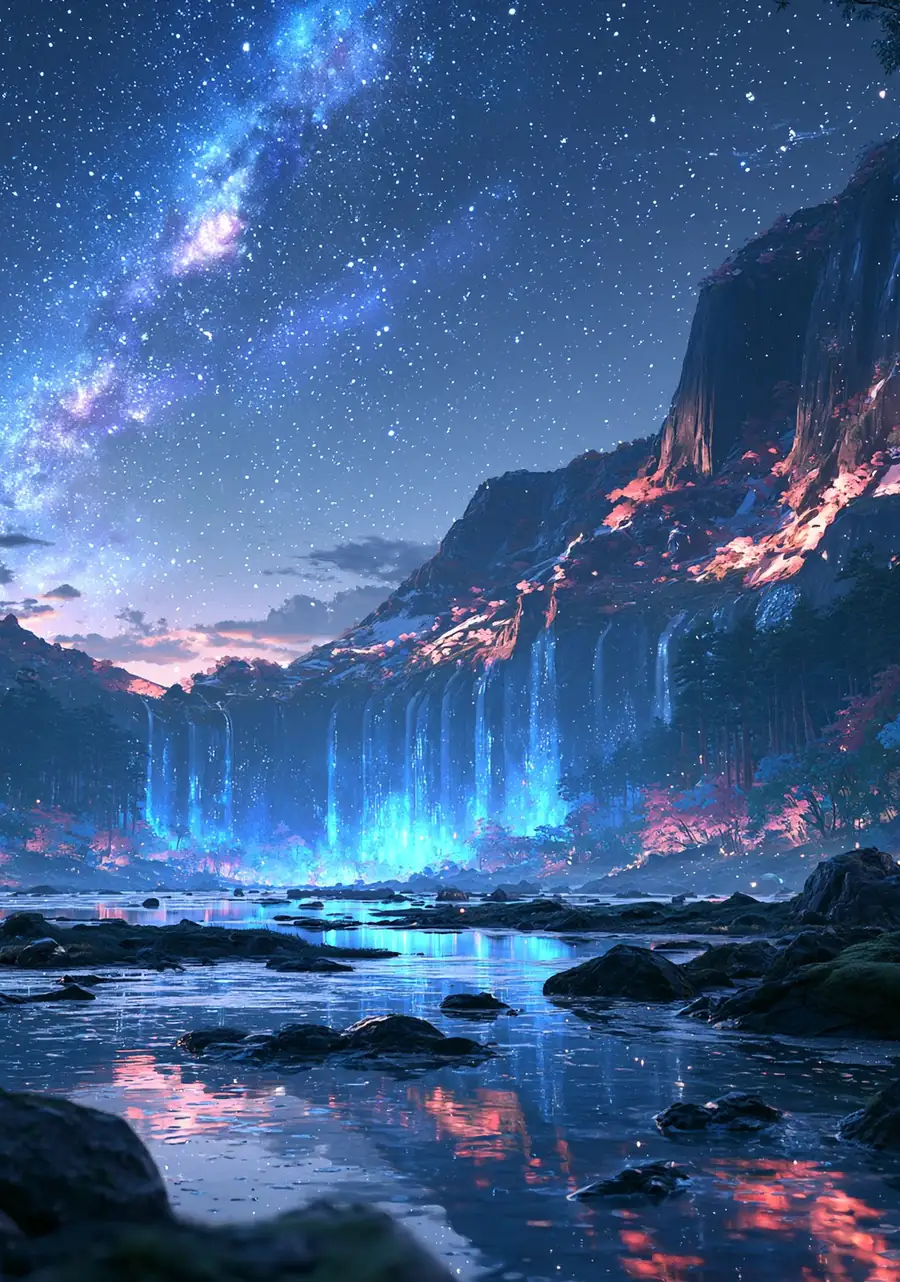
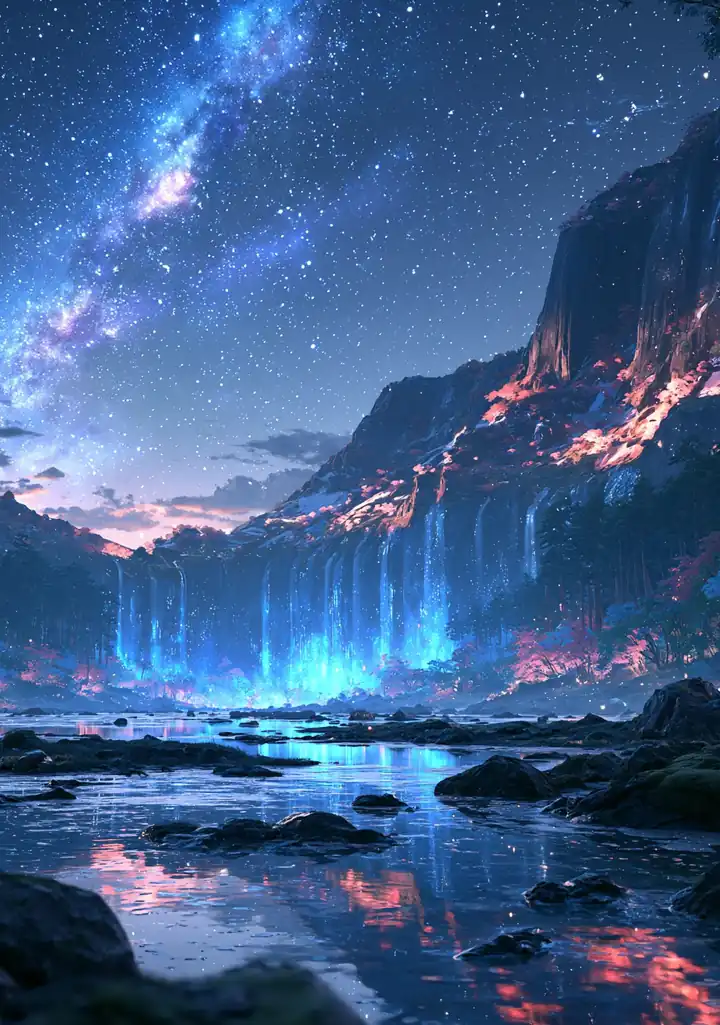
Speed and accessibility: no entrance fade, 24-story home feed, lighter backgrounds, true image proportions, heading order, 24px slider dot targets
Claude-Session: https://claude.ai/code/session_01USjhqJWUVKQJpni1JqJsGD

Changed region(s): [[0.8556, 0.4059, 0.8861, 0.4371], [0.5194, 0.4683, 0.55, 0.4995]]

diff --git a/src/assets/css/mc-light.css b/src/assets/css/mc-light.css
@@ -1902,3 +1902,9 @@ html[data-gz=light] body .lr-list .hz-sh{margin:0 0 6px!important;padding:0!impo
 html[data-gz=light] body .lr-head{margin-top:16px!important}
 html[data-gz=light] body .lr-list .hz-tabs{display:flex!important;flex-wrap:wrap!important;gap:6px!important;overflow:visible!important}
 html[data-gz=light] body .lr-list .hz-tabs button{white-space:nowrap!important;flex:none!important}
+.cc-h h2.s{font-size:20px!important}
+/* slider dots: same look, 24px touch target */
+html[data-gz=light] body .hz-ctl button{position:relative}
+html[data-gz=light] body .hz-ctl button::after{content:"";position:absolute;left:-4px;right:-4px;top:-10px;bottom:-10px}
+html[data-gz=light] body .hz-ctl button{box-sizing:content-box!important;height:6px!important;padding:9px 0!important;background-clip:content-box!important;border:0!important}
+html[data-gz=light] body .hz-ctl button::after{content:none}
